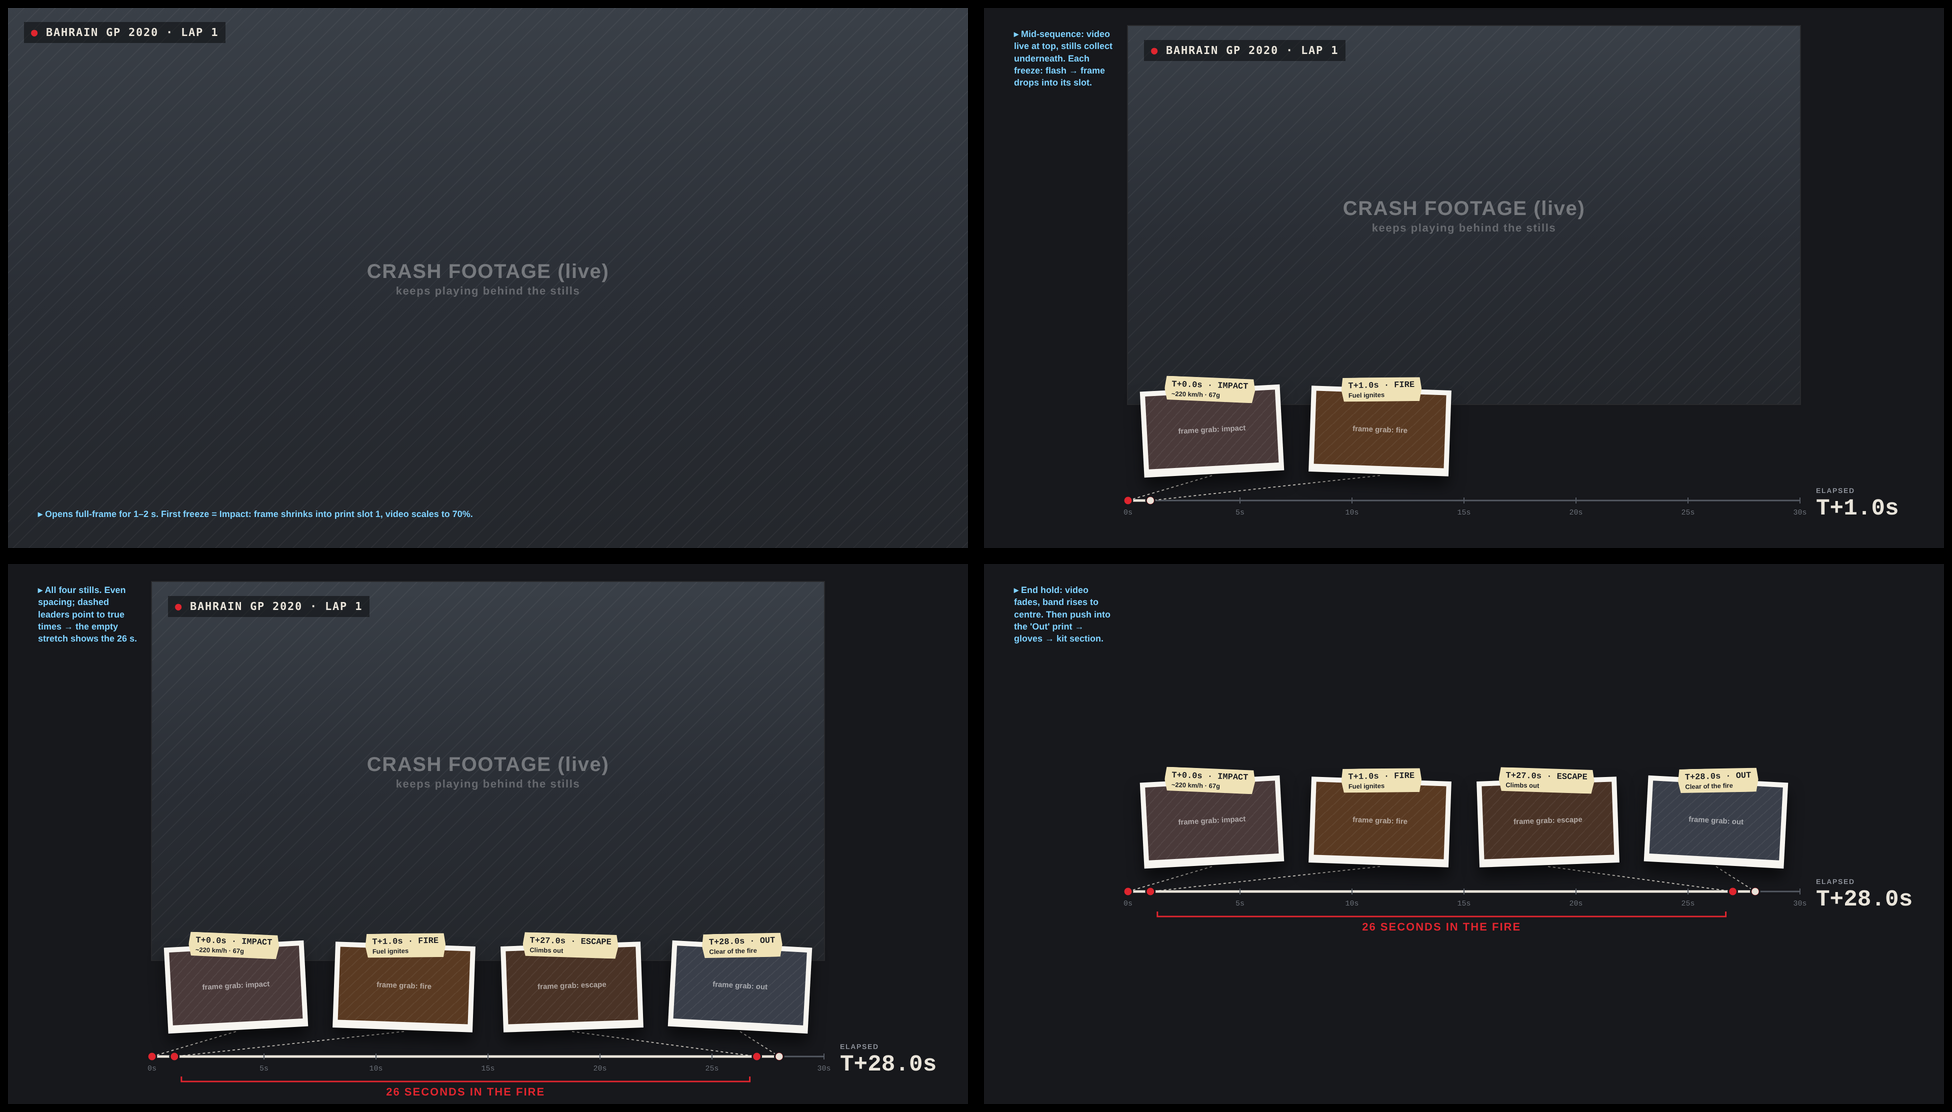
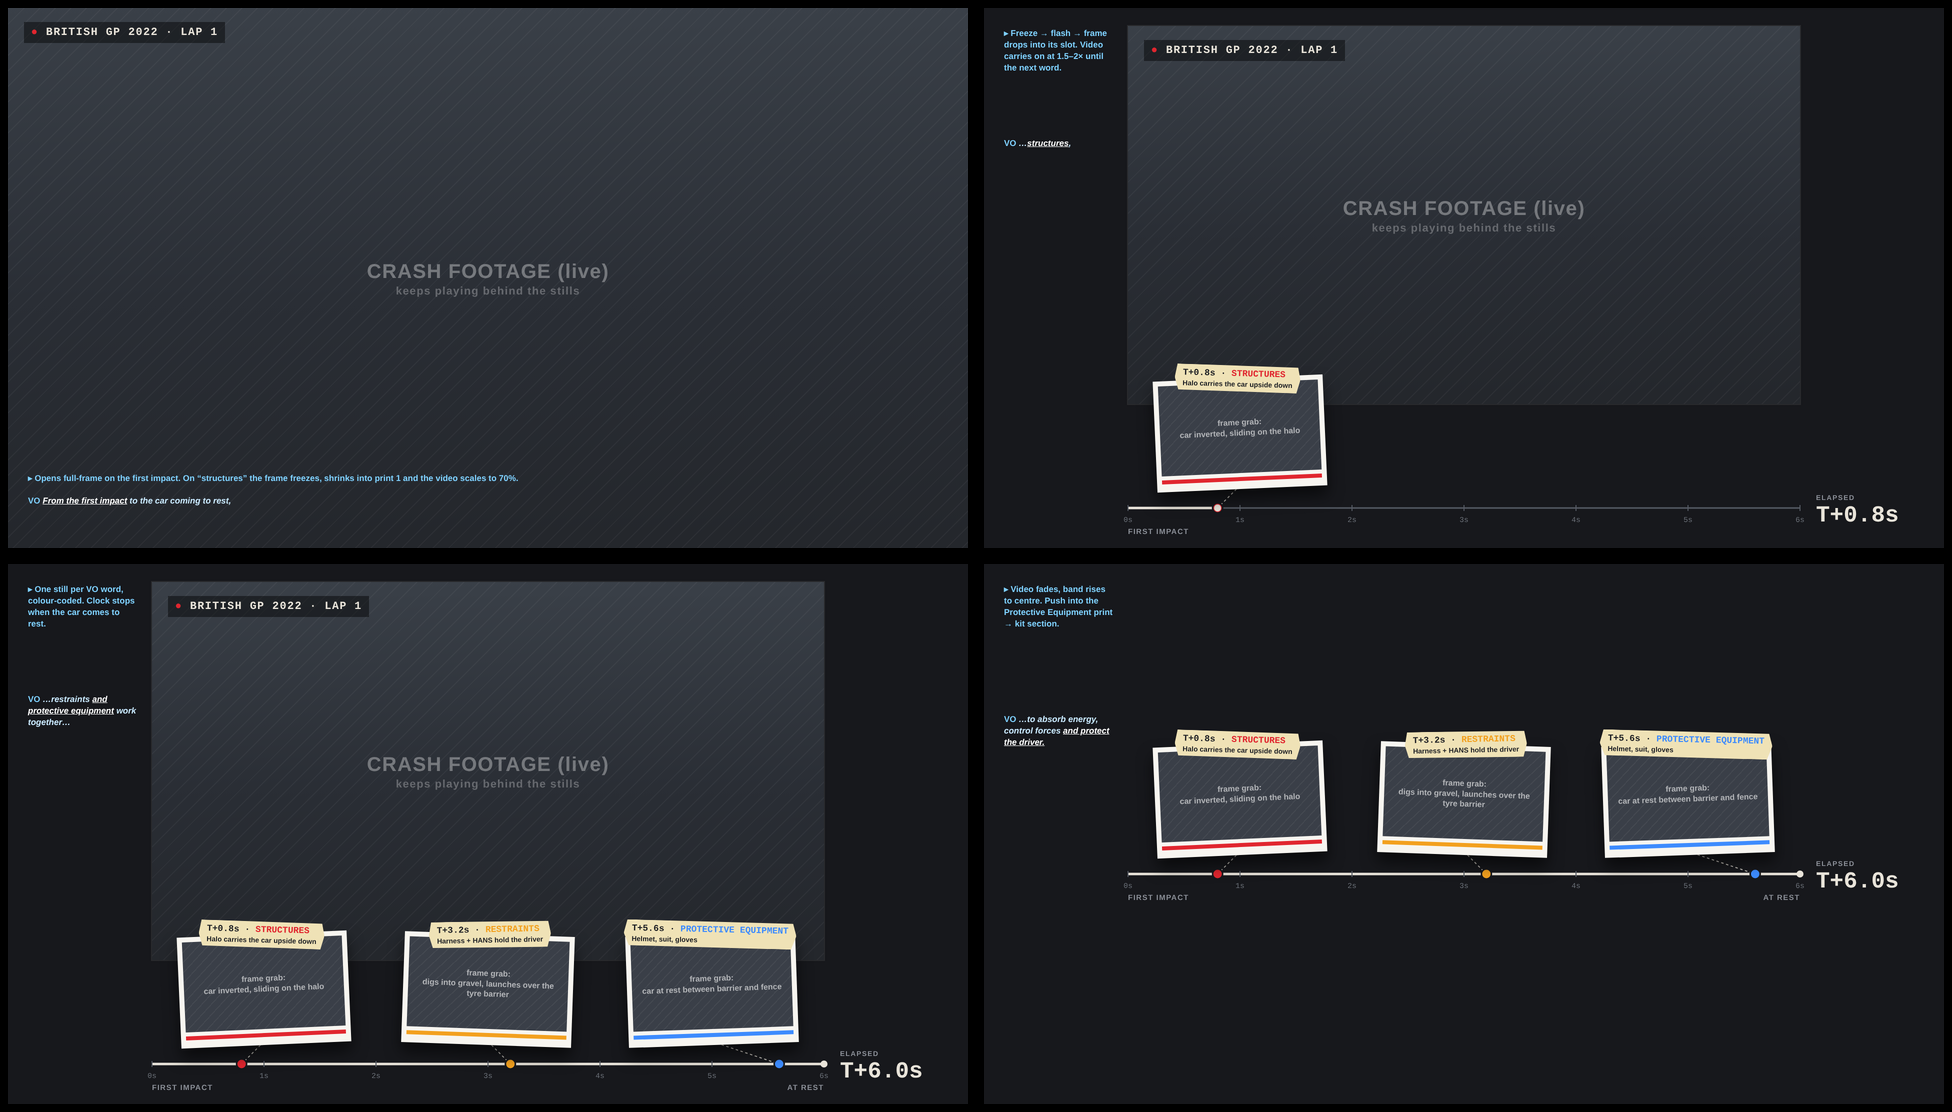
Update Ep.3 intro mockup: Zhou British GP 2022, three colour-coded stills synced to VO
Claude-Session: https://claude.ai/code/session_01EXPVoXbm4fJK3dSKj1ePkV

diff --git a/episode-03/intro/layout-mockup.html b/episode-03/intro/layout-mockup.html
@@ -5,13 +5,18 @@
 <title>Ep3 Intro Layout</title>
 <!--
   Layout mockup for the Ep.3 intro time slice (1920x1080), not final art.
-  ?state=1 open full-frame | 2 mid-sequence | 3 all stills | 4 end hold
-  Figures on the captions are placeholders - verify against the FIA report.
+  Crash: Zhou Guanyu, British GP 2022 (Silverstone), lap 1.
+  VO: "From the first impact to the car coming to rest, structures, restraints
+  and protective equipment work together to absorb energy, control forces and
+  protect the driver."
+  ?state=1 open full-frame | 2 first still | 3 all stills | 4 end hold
+  Times are placeholders - set them from the footage.
 -->
 <style>
   :root {
-    --bg: #17181c; --line: #e9e4da; --muted: #8a8e96; --red: #e0262f;
+    --bg: #17181c; --line: #e9e4da; --muted: #8a8e96; --note: #7fd1ff;
     --tape: #efe2b6; --print: #f7f5f0;
+    --structures: #e0262f; --restraints: #f2a01f; --equipment: #3d8bfd;
   }
   html, body { margin: 0; background: var(--bg); }
   #frame { position: relative; width: 1920px; height: 1080px; overflow: hidden; background: var(--bg);
@@ -23,46 +28,49 @@
       linear-gradient(180deg, #3a4048 0%, #2a2e35 55%, #24272c 100%);
     outline: 2px solid rgba(255,255,255,.08); }
   .video.full { left: 0; top: 0; width: 1920px; height: 1080px; outline: 0; }
-  .video .tag { position: absolute; left: 32px; top: 28px; font: 700 22px/1 monospace; letter-spacing: .08em;
+  .video .tag { position: absolute; left: 32px; top: 28px; font: 700 22px/1 "Liberation Mono", monospace; letter-spacing: .08em;
     background: rgba(0,0,0,.45); padding: 10px 14px; }
-  .video .tag b { color: var(--red); }
+  .video .tag b { color: var(--structures); }
   .video .label { position: absolute; inset: 0; display: grid; place-items: center; font: 600 40px/1.3 sans-serif;
     color: rgba(255,255,255,.35); text-align: center; letter-spacing: .04em; }
   .video .label small { display: block; font-size: 22px; color: rgba(255,255,255,.28); }
 
-  .print { position: absolute; top: 760px; width: 260px; padding: 10px 10px 16px; background: var(--print);
+  .print { position: absolute; top: 740px; width: 320px; padding: 10px 10px 16px; background: var(--print);
     box-shadow: 0 18px 30px rgba(0,0,0,.55); transform: translateX(-50%) rotate(var(--r)); }
-  .print .img { height: 146px; display: grid; place-items: center; font: 600 15px/1.2 sans-serif; color: rgba(255,255,255,.55);
-    background: repeating-linear-gradient(135deg, rgba(255,255,255,.05) 0 2px, transparent 2px 14px), var(--shade); }
-  .tape { position: absolute; left: 50%; top: -22px; transform: translateX(-50%) rotate(calc(var(--r) * -1.6));
-    background: var(--tape); color: #1d1f24; padding: 7px 14px 6px; white-space: nowrap; box-shadow: 0 2px 4px rgba(0,0,0,.25);
+  .print .img { height: 180px; display: grid; place-items: center; font: 600 16px/1.3 sans-serif; color: rgba(255,255,255,.6);
+    text-align: center; padding: 0 16px;
+    background: repeating-linear-gradient(135deg, rgba(255,255,255,.05) 0 2px, transparent 2px 14px), #3a3f48; }
+  /* category colour bar along the bottom of each print */
+  .print .cat { height: 8px; margin-top: 8px; background: var(--c); }
+  .tape { position: absolute; left: 50%; top: -26px; transform: translateX(-50%) rotate(calc(var(--r) * -1.6));
+    background: var(--tape); color: #1d1f24; padding: 8px 16px 7px; white-space: nowrap; box-shadow: 0 2px 4px rgba(0,0,0,.25);
     clip-path: polygon(2% 0, 98% 4%, 100% 50%, 97% 100%, 3% 96%, 0 50%); }
-  .tape b { font: 800 17px/1 "Liberation Mono", monospace; }
-  .tape span { display: block; font: 600 13px/1.2 sans-serif; margin-top: 3px; }
+  .tape b { font: 800 18px/1 "Liberation Mono", monospace; }
+  .tape b i { font-style: normal; color: var(--c); }
+  .tape span { display: block; font: 600 14px/1.2 sans-serif; margin-top: 4px; }
 
   svg.tl { position: absolute; left: 0; top: 0; width: 1920px; height: 1080px; pointer-events: none; }
-  .clock { position: absolute; left: 1664px; top: 958px; font: 700 46px/1 "Liberation Mono", monospace; }
+  .clock { position: absolute; left: 1664px; top: 972px; font: 700 46px/1 "Liberation Mono", monospace; }
   .clock small { display: block; font: 600 14px/1 sans-serif; color: var(--muted); letter-spacing: .12em; margin-bottom: 6px; }
 
-  .flash { position: absolute; inset: 0; background: #fff; opacity: .0; }
-
-  /* End hold: band rises to centre, video gone */
-  #frame.s4 .video { display: none; }
-  #frame.s4 .band { transform: translateY(-330px); }
   .band { position: absolute; inset: 0; }
+  #frame.s4 .video { display: none; }
+  #frame.s4 .band { transform: translateY(-380px); }
 
-  .note { position: absolute; font: 600 18px/1.35 sans-serif; color: #7fd1ff; }
-  .note::before { content: "▸ "; }
+  .note { position: absolute; left: 40px; width: 220px; font: 600 17px/1.35 sans-serif; color: var(--note); }
+  .note.vo { font-style: italic; color: #c9e9ff; }
+  .note.vo::before { content: "VO  "; font-style: normal; font-weight: 800; color: var(--note); }
+  .note.vo em { color: #fff; font-weight: 800; text-decoration: underline; }
+  .full-notes .note { width: 1700px; }
 </style>
 </head>
 <body>
 <div id="frame">
   <div class="video" id="video">
-    <div class="tag"><b>●</b> BAHRAIN GP 2020 · LAP 1</div>
+    <div class="tag"><b>●</b> BRITISH GP 2022 · LAP 1</div>
     <div class="label"><div>CRASH FOOTAGE (live)<small>keeps playing behind the stills</small></div></div>
   </div>
   <div class="band" id="band"></div>
-  <div class="flash" id="flash"></div>
 </div>
 <script>
 const state = Number(new URLSearchParams(location.search).get("state") || 3);
@@ -70,53 +78,62 @@ const frame = document.getElementById("frame");
 const band = document.getElementById("band");
 frame.classList.add("s" + state);
 
-// Timeline: x 288..1632 represents 0..30 s (aligned to the video edges).
-const X0 = 288, X1 = 1632, SECS = 30, TY = 985;
+// Timeline: x 288..1632 = 0..SECS (aligned to the video edges). Placeholder times.
+const X0 = 288, X1 = 1632, SECS = 6, TY = 1000;
 const tx = s => X0 + (X1 - X0) * s / SECS;
 const STILLS = [
-  { t: 0.0,  time: "T+0.0s",  name: "IMPACT",      note: "~220 km/h · 67g",    x: 456,  r: "-3deg", shade: "#4a3a3a" },
-  { t: 1.0,  time: "T+1.0s",  name: "FIRE",        note: "Fuel ignites",       x: 792,  r: "2deg",  shade: "#5a3a22" },
-  { t: 27.0, time: "T+27.0s", name: "ESCAPE",      note: "Climbs out",         x: 1128, r: "-2deg", shade: "#4a3326" },
-  { t: 28.0, time: "T+28.0s", name: "OUT",         note: "Clear of the fire",  x: 1464, r: "3deg",  shade: "#3a3f4a" },
+  { t: 0.8, cat: "STRUCTURES",           c: "var(--structures)", note: "Halo carries the car upside down", grab: "car inverted, sliding on the halo", x: 512,  r: "-2.5deg" },
+  { t: 3.2, cat: "RESTRAINTS",           c: "var(--restraints)", note: "Harness + HANS hold the driver",   grab: "digs into gravel, launches over the tyre barrier", x: 960,  r: "2deg" },
+  { t: 5.6, cat: "PROTECTIVE EQUIPMENT", c: "var(--equipment)",  note: "Helmet, suit, gloves",             grab: "car at rest between barrier and fence", x: 1408, r: "-2deg" },
 ];
-const shown = state === 1 ? 0 : state === 2 ? 2 : 4;
-const now = state === 1 ? 0.0 : state === 2 ? 1.0 : 28.0;
+const shown = { 1: 0, 2: 1, 3: 3, 4: 3 }[state];
+const now = { 1: 0, 2: 0.8, 3: 6.0, 4: 6.0 }[state];
 
 if (state === 1) {
   document.getElementById("video").classList.add("full");
 } else {
-  // timeline + leader lines + gap bracket
   const s = STILLS.slice(0, shown);
-  const svg = `
+  band.insertAdjacentHTML("beforeend", `
   <svg class="tl" viewBox="0 0 1920 1080">
     <line x1="${X0}" y1="${TY}" x2="${X1}" y2="${TY}" stroke="#555a63" stroke-width="3"/>
     <line x1="${X0}" y1="${TY}" x2="${tx(now)}" y2="${TY}" stroke="var(--line)" stroke-width="5"/>
-    ${[0,5,10,15,20,25,30].map(v => `<line x1="${tx(v)}" y1="${TY-6}" x2="${tx(v)}" y2="${TY+6}" stroke="#555a63" stroke-width="2"/>
+    ${[0,1,2,3,4,5,6].map(v => `<line x1="${tx(v)}" y1="${TY-6}" x2="${tx(v)}" y2="${TY+6}" stroke="#555a63" stroke-width="2"/>
       <text x="${tx(v)}" y="${TY+28}" fill="#6b7078" font-size="15" font-family="Liberation Mono, monospace" text-anchor="middle">${v}s</text>`).join("")}
-    ${s.map(p => `<line x1="${p.x}" y1="935" x2="${tx(p.t)}" y2="${TY}" stroke="var(--line)" stroke-width="2" stroke-dasharray="5 5" opacity=".8"/>
-      <circle cx="${tx(p.t)}" cy="${TY}" r="9" fill="var(--red)" stroke="var(--bg)" stroke-width="3"/>`).join("")}
-    ${shown === 4 ? `
-      <path d="M${tx(1)+14},${TY+40} v10 H${tx(27)-14} v-10" fill="none" stroke="var(--red)" stroke-width="3"/>
-      <text x="${(tx(1)+tx(27))/2}" y="${TY+78}" fill="var(--red)" font-size="22" font-weight="800" font-family="Liberation Sans, Arial" text-anchor="middle" letter-spacing="2">26 SECONDS IN THE FIRE</text>` : ""}
+    <text x="${X0}" y="${TY+52}" fill="var(--muted)" font-size="15" font-weight="700" font-family="Liberation Sans, Arial" letter-spacing="1.5" text-anchor="start">FIRST IMPACT</text>
+    ${now >= SECS ? `<text x="${X1}" y="${TY+52}" fill="var(--muted)" font-size="15" font-weight="700" font-family="Liberation Sans, Arial" letter-spacing="1.5" text-anchor="end">AT REST</text>` : ""}
+    ${s.map(p => `<line x1="${p.x}" y1="955" x2="${tx(p.t)}" y2="${TY}" stroke="var(--line)" stroke-width="2" stroke-dasharray="5 5" opacity=".8"/>
+      <circle cx="${tx(p.t)}" cy="${TY}" r="10" fill="${p.c}" stroke="var(--bg)" stroke-width="3"/>`).join("")}
     <circle cx="${tx(now)}" cy="${TY}" r="7" fill="var(--line)"/>
-  </svg>`;
-  band.insertAdjacentHTML("beforeend", svg);
+  </svg>`);
   s.forEach(p => band.insertAdjacentHTML("beforeend", `
-    <div class="print" style="left:${p.x}px;--r:${p.r};--shade:${p.shade}">
-      <div class="tape"><b>${p.time} · ${p.name}</b><span>${p.note}</span></div>
-      <div class="img">frame grab: ${p.name.toLowerCase()}</div>
+    <div class="print" style="left:${p.x}px;--r:${p.r};--c:${p.c}">
+      <div class="tape"><b>T+${p.t.toFixed(1)}s · <i>${p.cat}</i></b><span>${p.note}</span></div>
+      <div class="img">frame grab:<br>${p.grab}</div>
+      <div class="cat"></div>
     </div>`));
   band.insertAdjacentHTML("beforeend", `<div class="clock"><small>ELAPSED</small>T+${now.toFixed(1)}s</div>`);
 }
 
-// Annotations explaining each state (mockup only).
-const NOTES = {
-  1: [[60, 1000, "Opens full-frame for 1–2 s. First freeze = Impact: frame shrinks into print slot 1, video scales to 70%."]],
-  2: [[60, 40, "Mid-sequence: video live at top, stills collect underneath. Each freeze: flash → frame drops into its slot."]],
-  3: [[60, 40, "All four stills. Even spacing; dashed leaders point to true times → the empty stretch shows the 26 s."]],
-  4: [[60, 40, "End hold: video fades, band rises to centre. Then push into the 'Out' print → gloves → kit section."]],
+// Mockup-only notes: what happens + which VO words land on this state.
+const VO = {
+  1: `<em>From the first impact</em> to the car coming to rest,`,
+  2: `…<em>structures</em>,`,
+  3: `…restraints <em>and protective equipment</em> work together…`,
+  4: `…to absorb energy, control forces <em>and protect the driver.</em>`,
 };
-NOTES[state].forEach(([x, y, t]) => frame.insertAdjacentHTML("beforeend", `<div class="note" style="left:${x}px;top:${y}px;max-width:${state===1?1800:200}px">${t}</div>`));
+const NOTE = {
+  1: "Opens full-frame on the first impact. On “structures” the frame freezes, shrinks into print 1 and the video scales to 70%.",
+  2: "Freeze → flash → frame drops into its slot. Video carries on at 1.5–2× until the next word.",
+  3: "One still per VO word, colour-coded. Clock stops when the car comes to rest.",
+  4: "Video fades, band rises to centre. Push into the Protective Equipment print → kit section.",
+};
+if (state === 1) {
+  frame.insertAdjacentHTML("beforeend", `<div class="full-notes"><div class="note" style="top:930px">▸ ${NOTE[1]}</div>
+    <div class="note vo" style="top:975px">${VO[1]}</div></div>`);
+} else {
+  frame.insertAdjacentHTML("beforeend", `<div class="note" style="top:40px">▸ ${NOTE[state]}</div>
+    <div class="note vo" style="top:${state === 4 ? 300 : 260}px">${VO[state]}</div>`);
+}
 </script>
 </body>
 </html>
